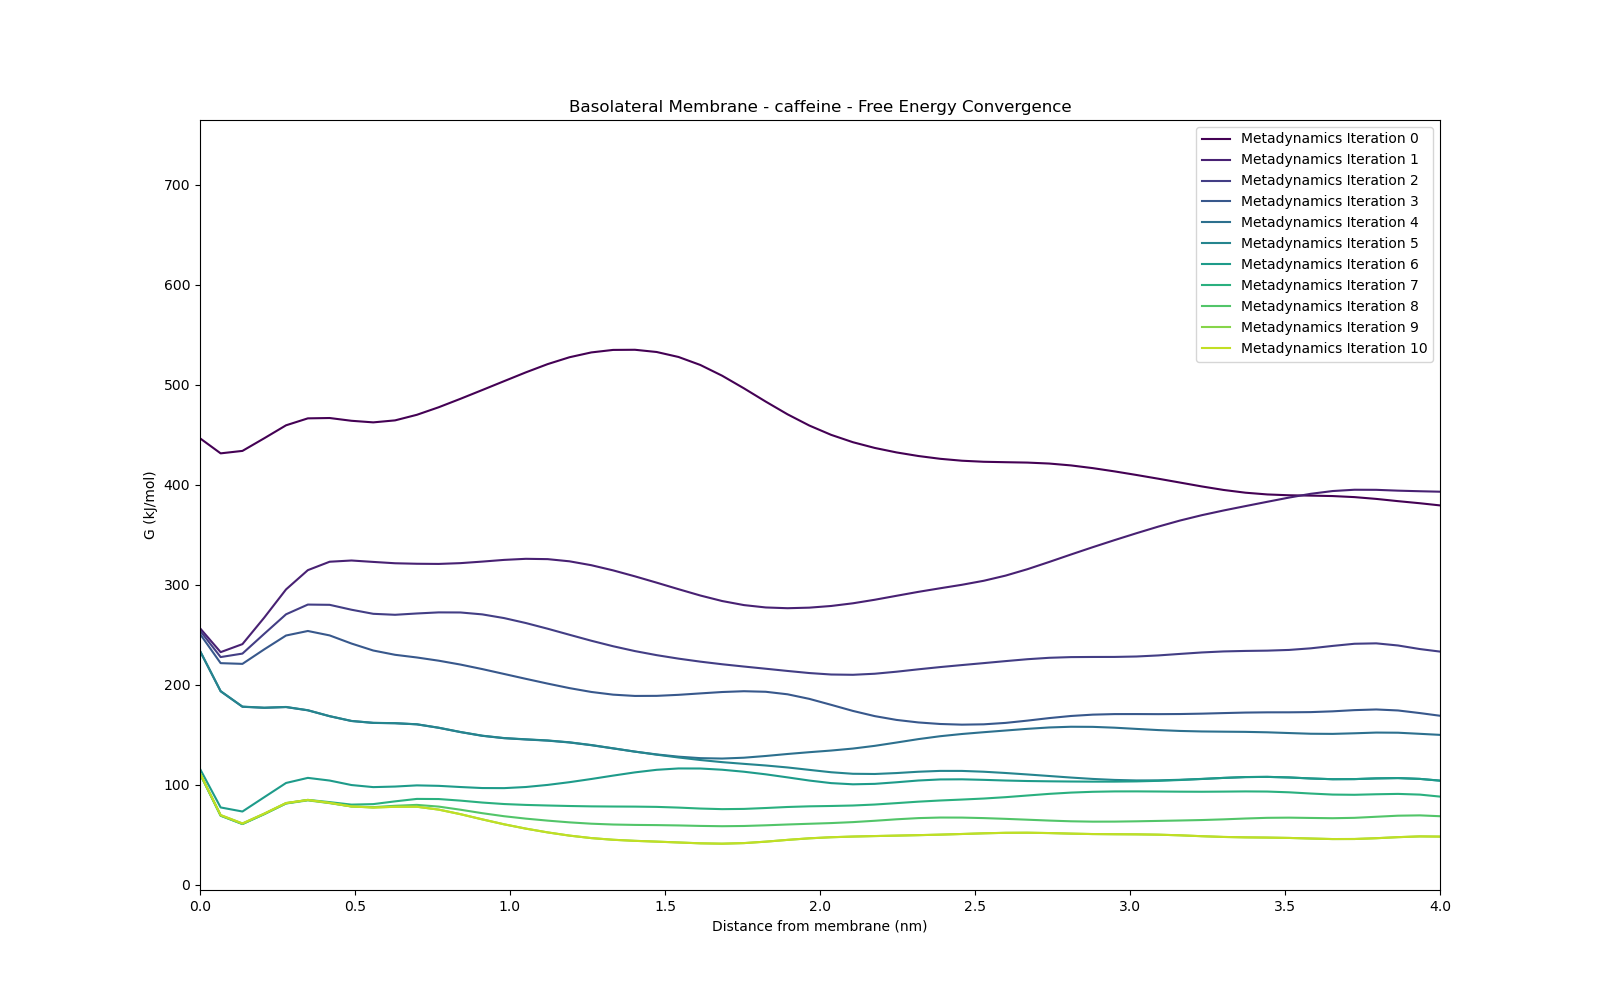
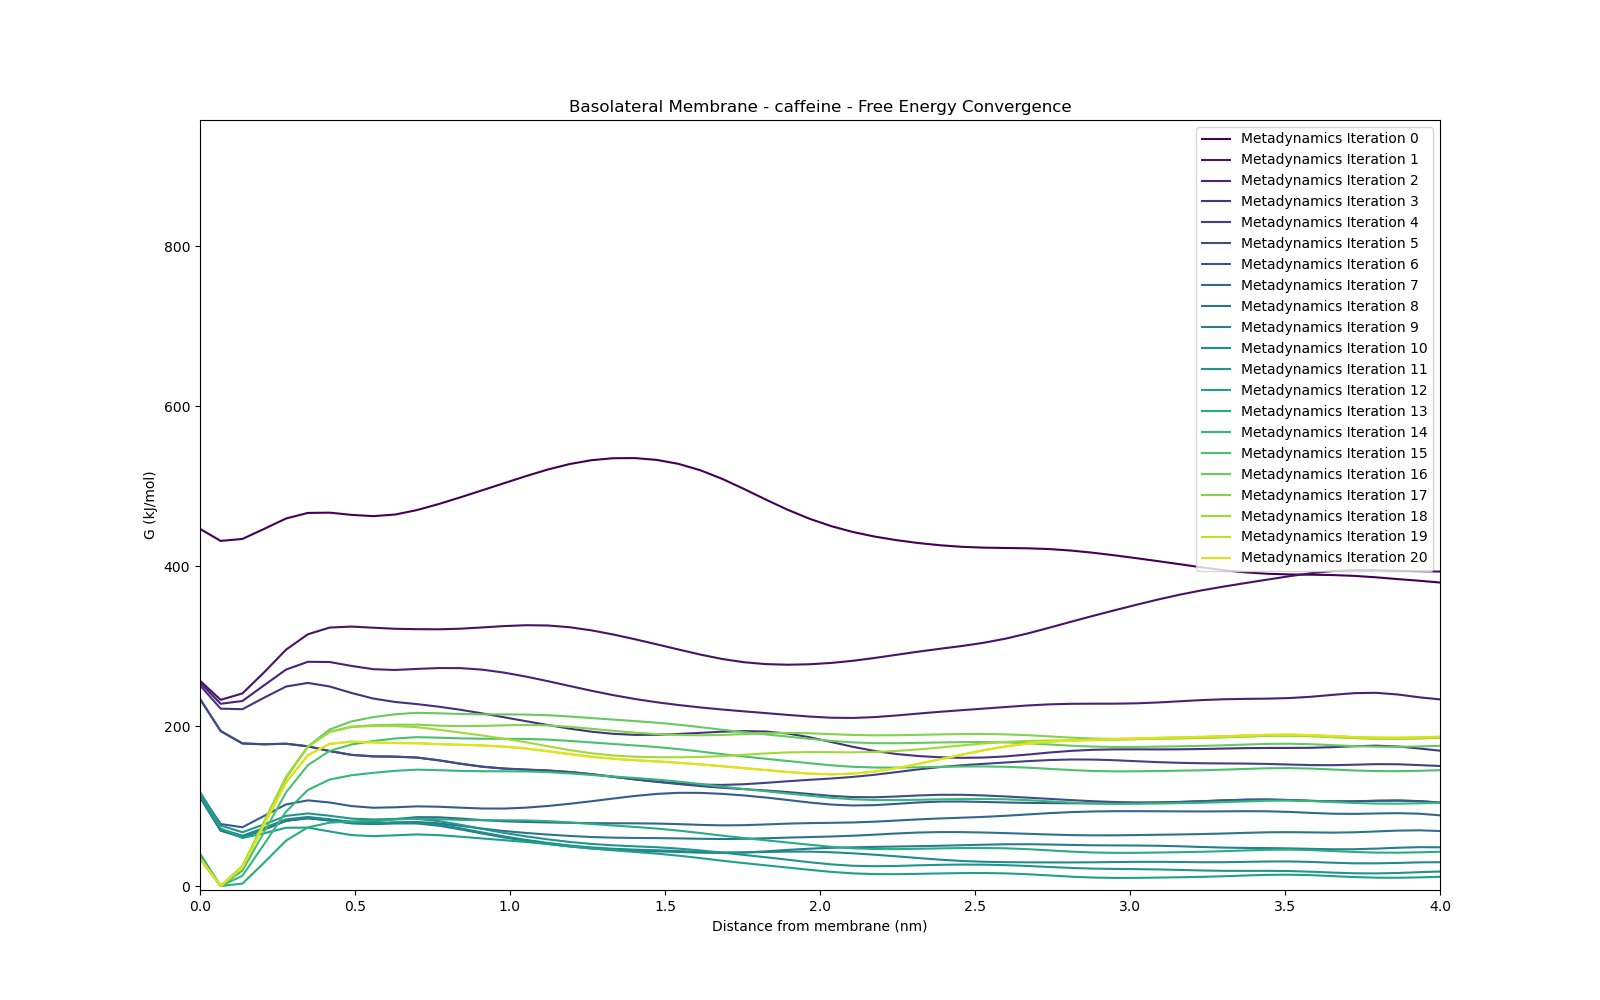
Rerun plotting

diff --git a/common/plotting/plot_correlation.py b/common/plotting/plot_correlation.py
@@ -17,24 +17,45 @@ molecules = {
 
 
 # Note max_idx is exclusive
-barriers = {}
-for membrane_name, membrane_fn in membranes:
-    for molecule in molecules:
-        data = pd.read_csv( # Read free energy data from plumed outputs
-            membrane_fn + molecule + '/fes.dat',
-            comment='#',
-            sep='\\s+',
-            names=['z', 'G', 'dG']
-            )
-        # Remove out of bounds data
-        data = data[(data['z'] > 0) * (data['z'] < 4)]
-        # We should shift the zero point of the free energy to the value in the water
-        zero_point = data['G'][data['z'] > 3.0].mean()
-        data['G'] -= zero_point
+apical_barriers = {}
+for molecule in molecules:
+    data = pd.read_csv( # Read free energy data from plumed outputs
+        membranes[0][1] + molecule + '/fes.dat',
+        comment='#',
+        sep='\\s+',
+        names=['z', 'G', 'dG']
+        )
+    # Remove out of bounds data
+    data = data[(data['z'] > 0) * (data['z'] < 4)]
+    # We should shift the zero point of the free energy to the value in the water
+    zero_point = data['G'][data['z'] > 3.0].mean()
+    data['G'] -= zero_point
 
-        if molecule not in barriers:
-            barriers[molecule] = 0
-        barriers[molecule] += data['G'].max()
+    if molecule not in apical_barriers:
+        apical_barriers[molecule] = 0
+    apical_barriers[molecule] += data['G'].max()
+
+basolateral_barriers = {}
+for molecule in molecules:
+    data = pd.read_csv( # Read free energy data from plumed outputs
+        membranes[1][1] + molecule + '/fes.dat',
+        comment='#',
+        sep='\\s+',
+        names=['z', 'G', 'dG']
+        )
+    # Remove out of bounds data
+    data = data[(data['z'] > 0) * (data['z'] < 4)]
+    # We should shift the zero point of the free energy to the value in the water
+    zero_point = data['G'][data['z'] > 3.0].mean()
+    data['G'] -= zero_point
+
+    if molecule not in basolateral_barriers:
+        basolateral_barriers[molecule] = 0
+    basolateral_barriers[molecule] += data['G'].max()
+
+barriers = {}
+for molecule in molecules:
+    barriers[molecule] = apical_barriers[molecule] + basolateral_barriers[molecule]
 
 plt.figure()
 for k in molecules:
@@ -50,4 +71,35 @@ plt.xlabel('Total Barrier Height (kJ/mol)')
 plt.ylabel('Experimental logBB')
 plt.title('Total Apical and Basolateral Barrier Height vs. Experimental logBB')
 plt.savefig('barrier_vs_logBB.png')
+
+plt.figure()
+for k in molecules:
+    x = apical_barriers[k]
+    y = molecules[k]
+    plt.scatter(x, y)
+    plt.annotate(k, (x, y))
+
+# Add a horizontal line at y=-1 to separate BBBP+ and BBBP-
+# Molecules with logBB > -1 are considered to be BBBP+
+plt.axhline(y=-1, color='r', linestyle='--')
+plt.xlabel('Apical Barrier Height (kJ/mol)')
+plt.ylabel('Experimental logBB')
+plt.title('Apical Barrier Height vs. Experimental logBB')
+plt.savefig('apical_barrier_vs_logBB.png')
+
+plt.figure()
+for k in molecules:
+    x = basolateral_barriers[k]
+    y = molecules[k]
+    plt.scatter(x, y)
+    plt.annotate(k, (x, y))
+
+# Add a horizontal line at y=-1 to separate BBBP+ and BBBP-
+# Molecules with logBB > -1 are considered to be BBBP+
+plt.axhline(y=-1, color='r', linestyle='--')
+plt.xlabel('Basolateral Barrier Height (kJ/mol)')
+plt.ylabel('Experimental logBB')
+plt.title('Basolateral Barrier Height vs. Experimental logBB')
+plt.savefig('basolateral_barrier_vs_logBB.png')
+
 plt.show()

diff --git a/common/plotting/plot_convergence.py b/common/plotting/plot_convergence.py
@@ -47,7 +47,7 @@ if len(sys.argv) == 1:
             args.out = out_fn + '/' + molecule + '_convergence.png'
             args.title = f'{membrane_name} - {molecule} - Free Energy Convergence'
             args.min_idx = 0
-            args.max_idx = 11
+            args.max_idx = 21
 
             main(args)
 else:
